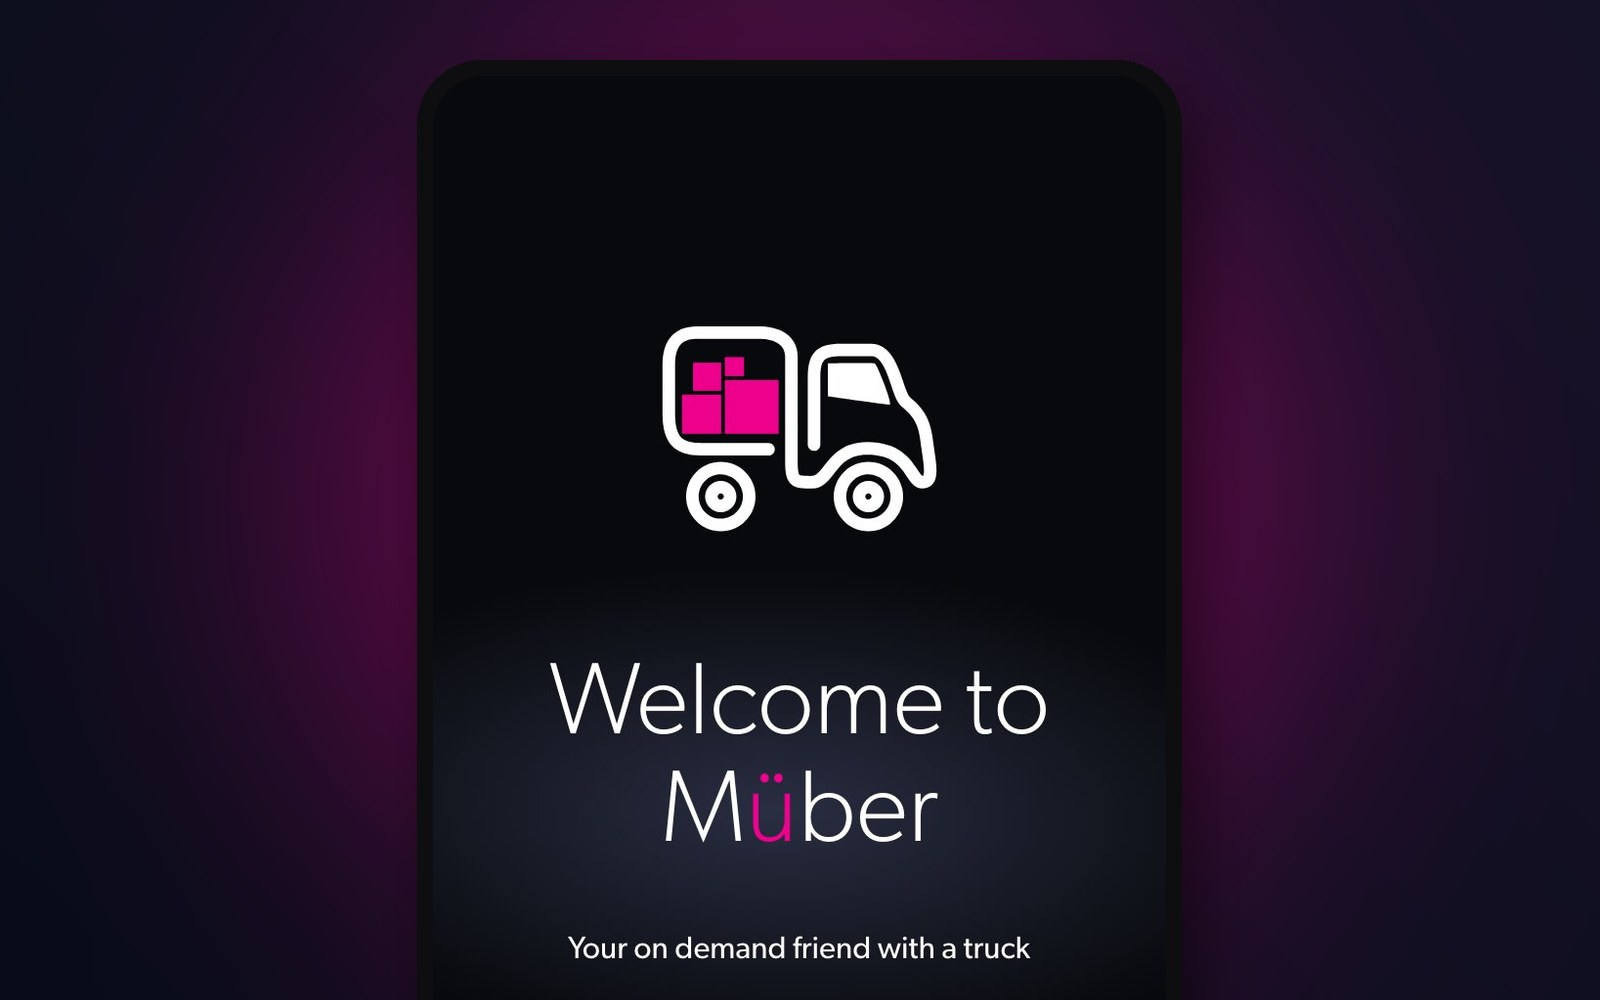
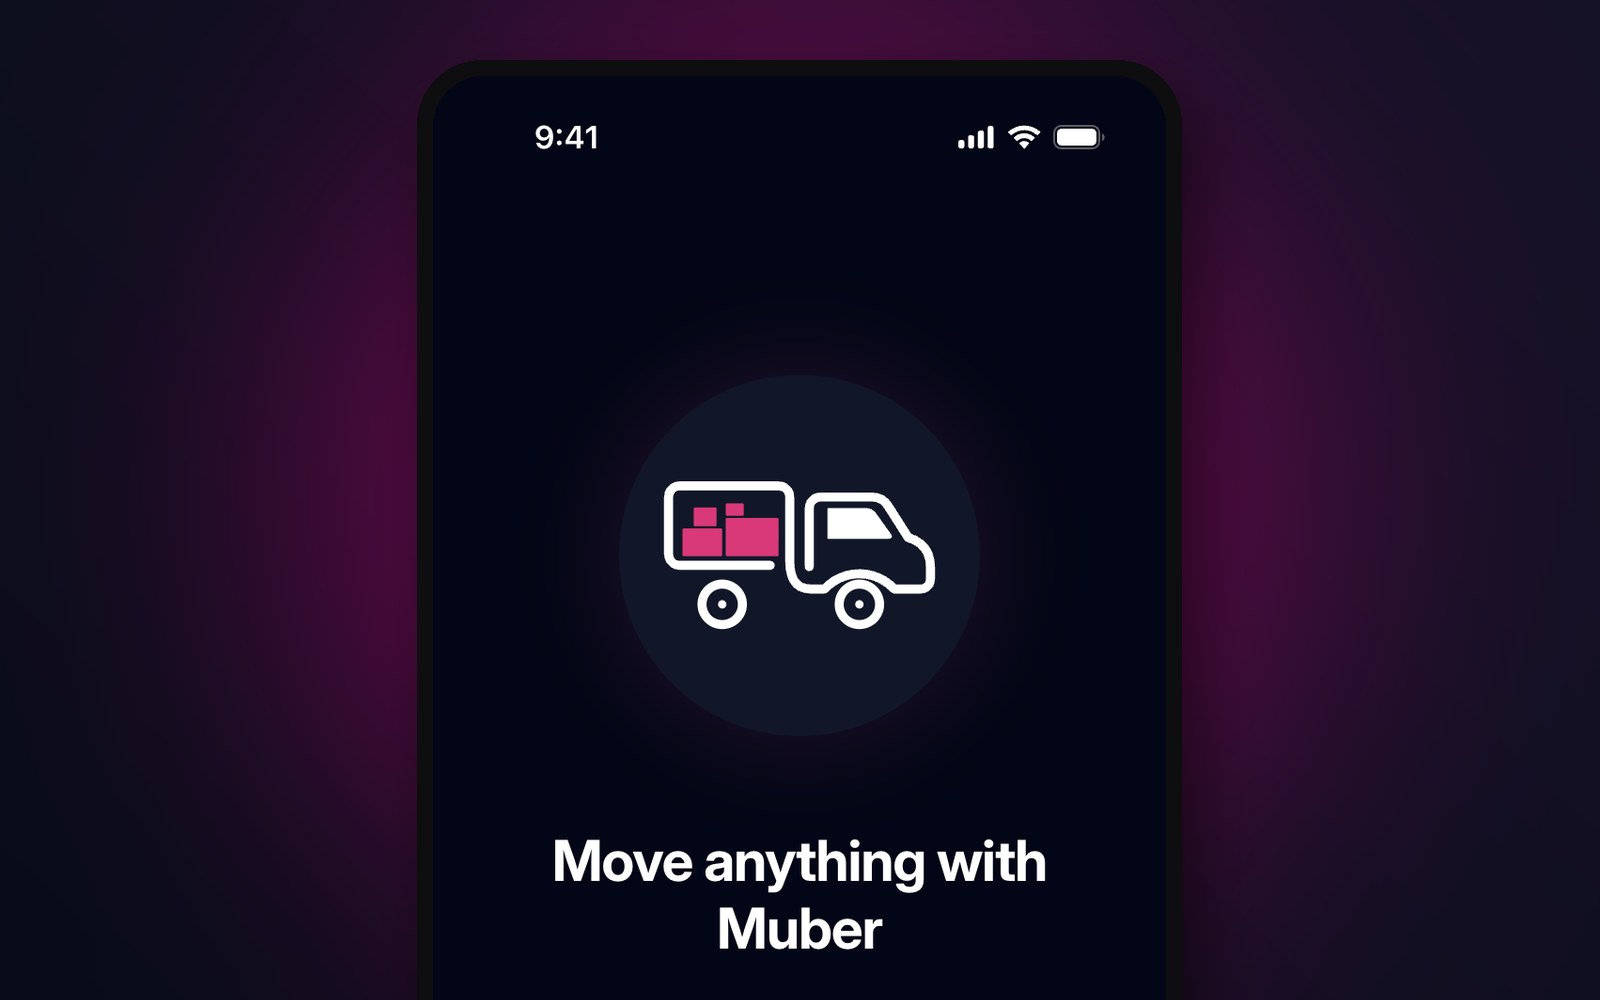
Muber: current onboarding screen as cover and in case study
Claude-Session: https://claude.ai/code/session_01QwgLRa2fQqRpFBKq7pRD2L

diff --git a/case-studies/muber.html b/case-studies/muber.html
@@ -210,6 +210,15 @@
           <iframe src="https://www.youtube-nocookie.com/embed/dQmxEpuNqf0?rel=0" title="Muber prototype demo" loading="lazy" allow="accelerometer; encrypted-media; gyroscope; picture-in-picture; fullscreen" allowfullscreen></iframe>
         </div>
         <p class="read reveal" style="font-size:14px;color:var(--muted)">Prototype demo of the Muber app.</p>
+        <div class="ui-pair reveal">
+          <div class="read" style="margin:0">
+            <h3>The launch app today</h3>
+            <p>The app going to market keeps what worked in 2019: the truck mark, a dark screen, and one pink action. Onboarding now opens on what you can do instead of who we are: get new furniture delivered within an hour, or move into a new place at a time that works for you.</p>
+          </div>
+          <figure class="shot phone">
+            <img src="../assets/img/muber/onboarding-current.jpg" alt="Current Muber onboarding screen: truck logo, 'Move anything with Muber,' a line about furniture delivery within an hour or moving on your schedule, page dots, and a pink Next button" loading="lazy" width="780" height="1688">
+          </figure>
+        </div>
       </div>
     </section>
 
